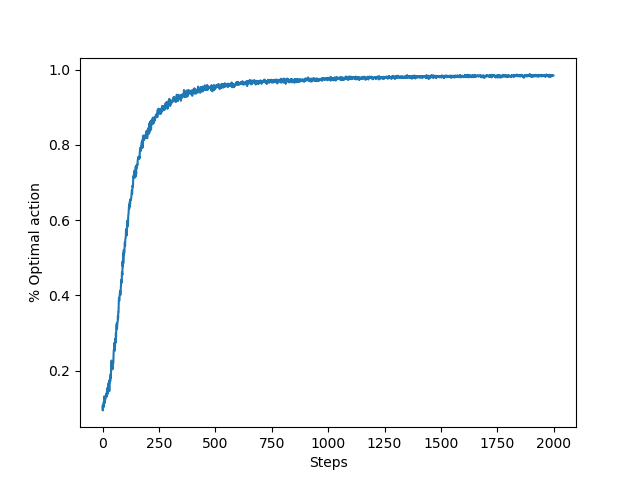
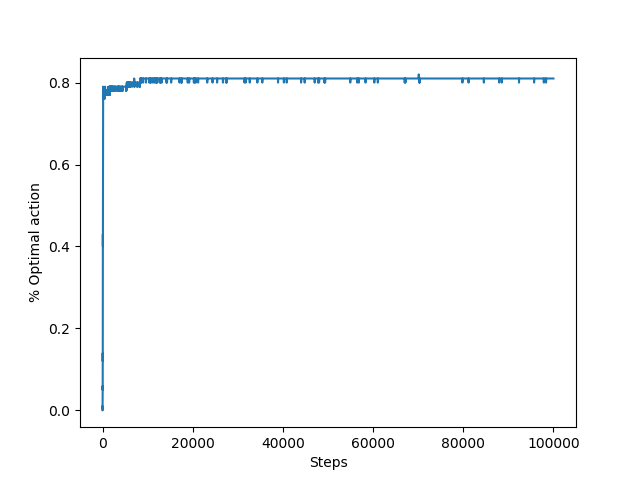
bandit study

diff --git a/misc/ten_armed_bandit_testbed.py b/misc/ten_armed_bandit_testbed.py
@@ -62,7 +62,7 @@ class Bandit:
     # @initial: initial estimation for each action
     # @step_size: constant step size for updating estimations
     
-    def __init__(self, k_arm=10, initial=0., step_size=0.1):
+    def __init__(self, k_arm=3, initial=0., step_size=0.1):
         self.k = k_arm
         self.step_size = step_size
         self.indices = np.arange(self.k)
@@ -71,67 +71,93 @@ class Bandit:
                 
         # real reward for each action , a nomral distribution
         self.q_true = np.random.randn(self.k)
-        
-        plt.plot(self.q_true)
-        plt.ylabel('q_true')
-        plt.savefig('/home/lb/workspace/Dino/results/q_true.png')
 
-        plt.close()
-        
+               
 
     def reset(self):
        
+        self.instant_reward= np.zeros(self.k)
         # estimation for each action
         self.q_estimation = np.zeros(self.k) 
+       
+        self.action_prob = np.exp(self.q_estimation) / np.sum(np.exp(self.q_estimation))
 
         # # of chosen times for each action
         self.action_count = np.zeros(self.k)
 
         self.best_action = np.argmax(self.q_true)
 
+        self.instant_reward= np.zeros(self.k)
+
     # get an action for this bandit with softmax policy
     def act(self):
-        exp_est = np.exp(self.q_estimation)
-        self.action_prob = exp_est / np.sum(exp_est)
-
-        """ plt.plot(self.action_prob)
-        plt.ylabel('Prob.')
-        plt.savefig('/home/lb/workspace/Dino/results/prob.png')
-        plt.close() """
-
         return np.random.choice(self.indices, p=self.action_prob)
     
     # take an action, update estimation for this action
     def step(self, action):
+         
+        plt.ion()     
+       
         # generate the reward under N(real reward, 1)
-        reward = np.random.randn() + self.q_true[action]
-        #reward = self.q_true[action]
+        reward = 50*np.random.randn() +self.q_true[action]
+        
+        self.instant_reward[action]= reward
+
         self.time += 1
         self.average_reward =(self.time - 1.0) / self.time * self.average_reward + reward / self.time
         self.action_count[action] += 1
 
-        
         one_hot = np.zeros(self.k)
         one_hot[action] = 1
         baseline = self.average_reward
+        
+        f3=plt.subplot(413)
+        f3.clear()
+        f3.plot(self.q_estimation)
+        plt.ylabel('Previous Esit.')
+        
         #
-        self.q_estimation = self.q_estimation + self.step_size * (reward - baseline) * (one_hot - self.action_prob)
+        self.q_estimation = self.q_estimation + self.step_size * (reward -baseline) * (one_hot - self.action_prob)
+
+        exp_est = np.exp(self.q_estimation)
+        self.action_prob = exp_est / np.sum(exp_est)
+
+        f1=plt.subplot(411)
+        f1.clear() 
+        f1.plot(self.q_true)
+        plt.ylabel('q_true')
+        
+        f2=plt.subplot(412)
+        f2.clear()
+        f2.plot(self.instant_reward-self.average_reward)
+        plt.ylabel('Reward')
 
         
+
+        f3=plt.subplot(414)
+        f3.clear()
+        f3.plot(self.q_estimation)
+        plt.ylabel('Esti.')
+
+        plt.pause(0.001)
+        plt.show()
         
+
+        
+
         return reward
    
 
 def main():
-    runs = 2000
-    time = 2000
+    runs = 100
+    time = 1000
     bandit = Bandit()
     best_action_counts = np.zeros((runs, time))
     rewards = np.zeros(best_action_counts.shape)
 
     for run in tqdm(range(runs)):
         bandit.reset()
-        for time_step in range(time):
+        for time_step in tqdm(range(time)):
             action = bandit.act()
             reward = bandit.step(action)
             rewards[run, time_step] = reward
@@ -144,7 +170,7 @@ def main():
     plt.plot(best_action_counts)
     plt.xlabel('Steps')
     plt.ylabel('% Optimal action')
-    plt.savefig('/home/lb/workspace/Dino/results/bandit.png')
+    plt.savefig('C:/Data/OrNot/workspace/DeepReinforcementLearningPlayground/results/bandit.png')
 
     plt.close()
     
